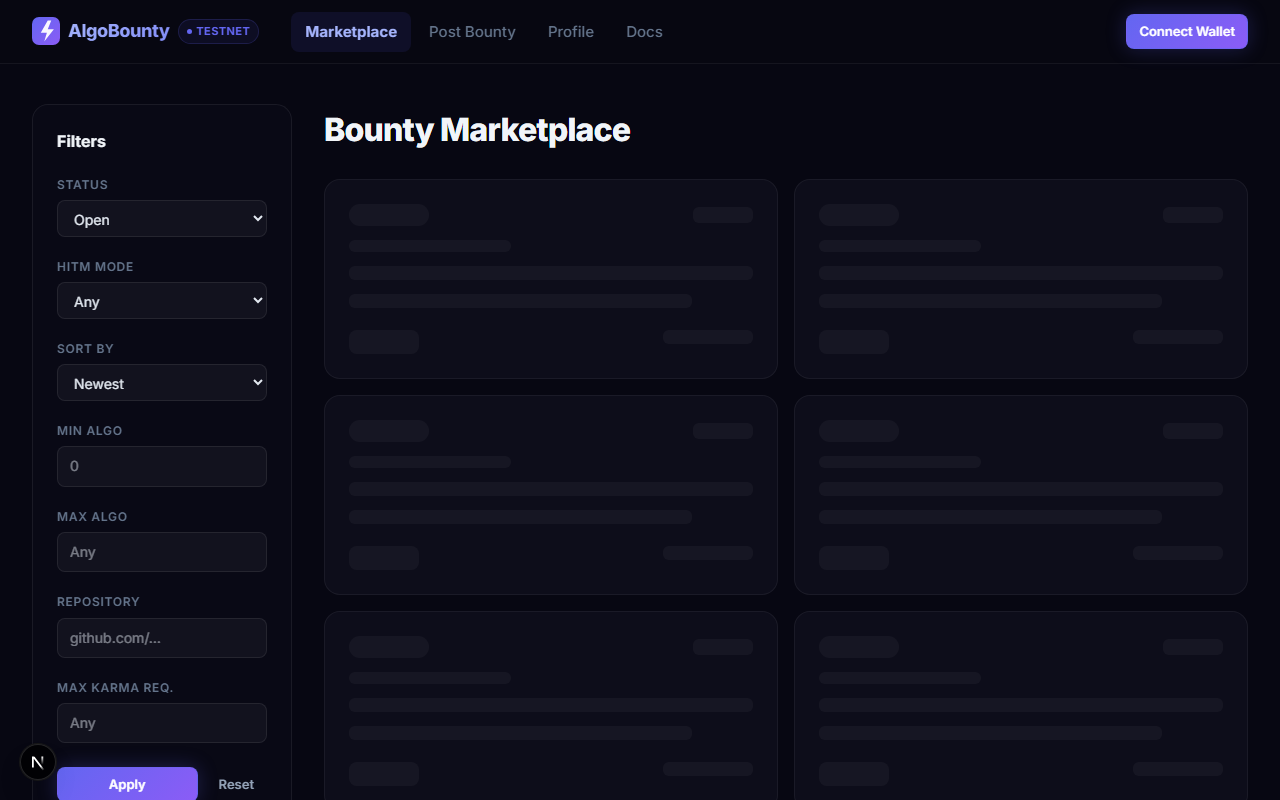
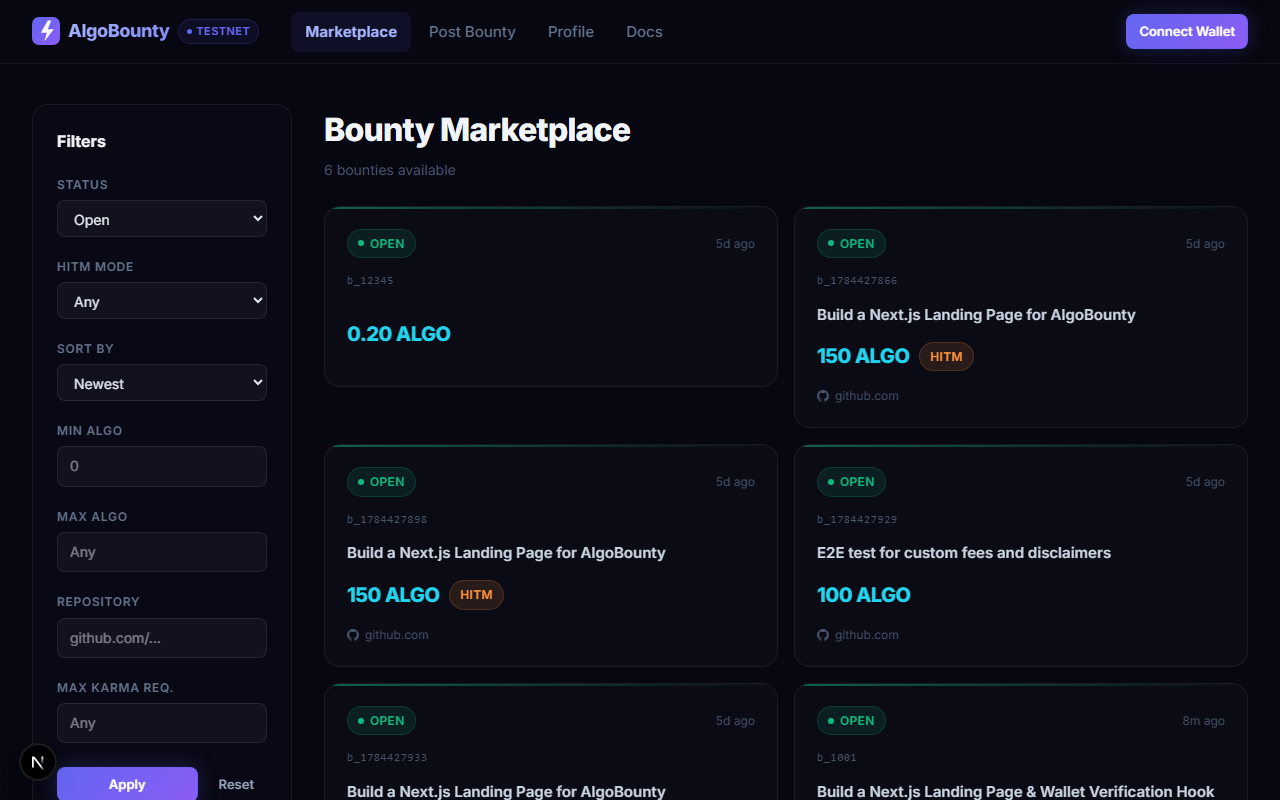
docs: refresh marketplace screenshot after full card grid load

diff --git a/dashboard/e2e/capture-lifecycle-screenshots.spec.ts b/dashboard/e2e/capture-lifecycle-screenshots.spec.ts
@@ -72,9 +72,12 @@ test('Capture Full Rich UI Lifecycle Screenshots (Marketplace, Claim Modal, Subm
 
   console.log('--- Step 1: Marketplace Dashboard with Loaded Cards ---');
   await page.goto('http://localhost:3000/');
-  await page.waitForSelector('h1');
-  await page.waitForTimeout(2500);
+  
+  // Wait explicitly for .bounty-card element to mount (skipping skeleton boxes)
+  await page.waitForSelector('.bounty-card', { timeout: 10000 });
+  await page.waitForTimeout(1000);
 
+  // Capture full marketplace homepage with loaded cards
   await page.screenshot({ path: `${DOCS_IMG_DIR}/marketplace_dashboard.png` });
   await page.screenshot({ path: `${BRAIN_DIR}/marketplace_dashboard.png` });
 
@@ -89,14 +92,13 @@ test('Capture Full Rich UI Lifecycle Screenshots (Marketplace, Claim Modal, Subm
   }, worker);
 
   await workerPage.goto('http://localhost:3000/bounties/b_1001');
-  await workerPage.waitForSelector('h1');
-  await workerPage.waitForTimeout(1500);
+  await workerPage.waitForSelector('#claim-btn', { timeout: 10000 });
+  await workerPage.waitForTimeout(1000);
 
   await workerPage.screenshot({ path: `${DOCS_IMG_DIR}/bounty_detail_view.png` });
   await workerPage.screenshot({ path: `${BRAIN_DIR}/bounty_detail_view.png` });
 
   const claimBtn = workerPage.locator('#claim-btn');
-  await claimBtn.waitFor({ state: 'visible', timeout: 5000 });
   await claimBtn.click();
   await workerPage.waitForSelector('#claim-modal-title', { timeout: 5000 });
   await workerPage.waitForTimeout(800);
@@ -105,14 +107,12 @@ test('Capture Full Rich UI Lifecycle Screenshots (Marketplace, Claim Modal, Subm
 
   console.log('--- Step 3: Submitting Work View on Claimed Bounty (b_1002) ---');
   await workerPage.goto('http://localhost:3000/bounties/b_1002');
-  await workerPage.waitForSelector('h1');
-  await workerPage.waitForTimeout(1500);
+  await workerPage.waitForSelector('#pr-url-input', { timeout: 10000 });
+  await workerPage.waitForTimeout(1000);
 
   const prInput = workerPage.locator('#pr-url-input');
-  if (await prInput.isVisible()) {
-    await prInput.fill('https://github.com/IcanBENCHurCAT/algo-bounty/pull/42');
-    await workerPage.waitForTimeout(600);
-  }
+  await prInput.fill('https://github.com/IcanBENCHurCAT/algo-bounty/pull/42');
+  await workerPage.waitForTimeout(600);
   await workerPage.screenshot({ path: `${DOCS_IMG_DIR}/submit_work_view.png` });
   await workerPage.screenshot({ path: `${BRAIN_DIR}/submit_work_view.png` });
 
@@ -127,11 +127,10 @@ test('Capture Full Rich UI Lifecycle Screenshots (Marketplace, Claim Modal, Subm
   }, creator);
 
   await creatorPage.goto('http://localhost:3000/bounties/b_1003');
-  await creatorPage.waitForSelector('h1');
-  await creatorPage.waitForTimeout(1500);
+  await creatorPage.waitForSelector('#approve-btn', { timeout: 10000 });
+  await creatorPage.waitForTimeout(1000);
 
   const approveBtn = creatorPage.locator('#approve-btn');
-  await approveBtn.waitFor({ state: 'visible', timeout: 5000 });
   await approveBtn.click();
   await creatorPage.waitForSelector('#approve-modal-title', { timeout: 5000 });
   await creatorPage.waitForTimeout(800);

diff --git a/dashboard/src/providers/AuthProvider.tsx b/dashboard/src/providers/AuthProvider.tsx
@@ -49,16 +49,12 @@ export function AuthProvider({ children }: { children: React.ReactNode }) {
     signTransactions,
   } = useWallet()
 
-  const isE2EOnInit = typeof window !== 'undefined' && window.localStorage.getItem('algobounty_connected') === 'true'
-  const initialAddr = isE2EOnInit ? window.localStorage.getItem('algobounty_address') : null
-  const initialJwt = isE2EOnInit ? window.localStorage.getItem('algobounty_jwt') : null
-
   const [state, setState] = useState<WalletAuthState>({
-    address: initialAddr,
-    connected: isE2EOnInit && Boolean(initialAddr),
-    walletType: isE2EOnInit ? (window.localStorage.getItem('algobounty_wallet_type') || 'pera') : null,
-    jwt: initialJwt,
-    karma: 25,
+    address: null,
+    connected: false,
+    walletType: null,
+    jwt: null,
+    karma: 0,
     profile: null,
     loading: false,
     error: null,
